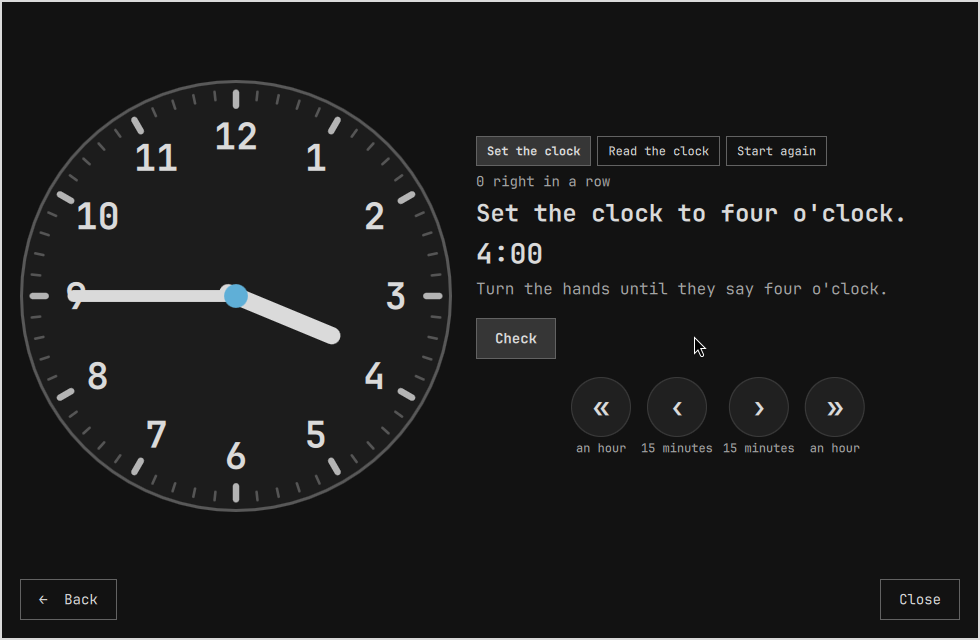
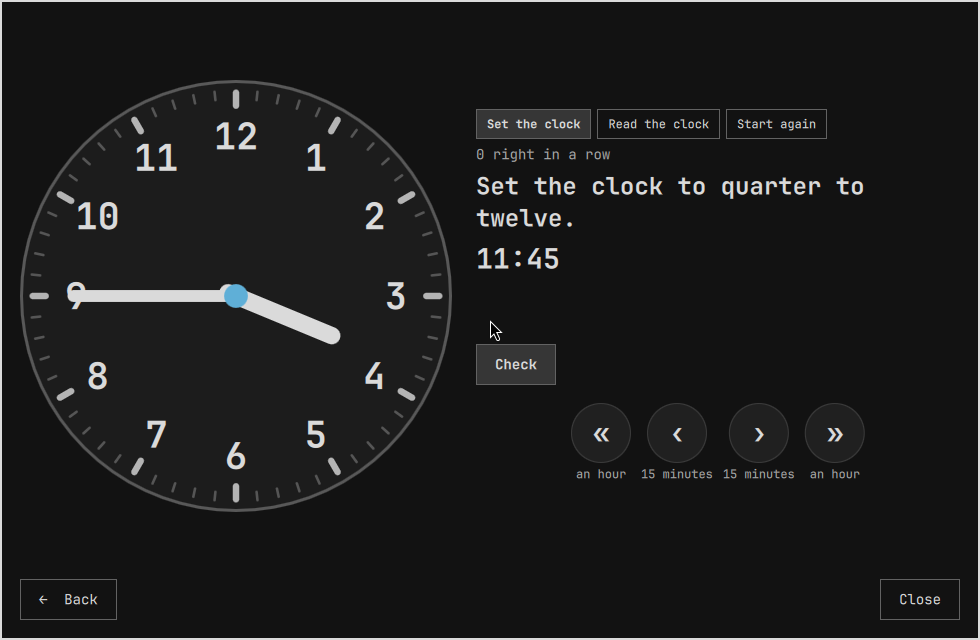
A house, a sky with weather in it, and a day a grandparent can have
The globe's Find home is the house glyph from the same icon font the bar's
sun and moon come from, since it sits between two buttons that are already
arrows.

Both rounds said what they wanted twice: "Set the clock to eight o'clock"
and then "Turn the hands until they say eight o'clock", and "What time is the
clock saying?" over "Read the hands, then pick the time". The second one is
gone, and the line it stood on is kept for the verdict, two lines high
whatever it says, so nothing moves when the answer arrives.

The routine was written for a child and then applied to everybody, so Grandma
was at school on a Wednesday morning. It is "at school or at work" now, and
the afternoon is "home from school or work" rather than "out of school".

The sky has a ground to it: a gradient, darker overhead and lighter towards
the horizon, warmed towards the accent as the sun gets near it so that dawn
and dusk look like dawn and dusk. It is the foreground and the accent at an
alpha and nothing else, so it re-tints with the theme like everything else
here, and the small skies on the cards get it too.

Claude-Session: https://claude.ai/code/session_01NM7Hj4ciYhKm8Aio5Eie8D

diff --git a/Overlay.qml b/Overlay.qml
@@ -592,6 +592,23 @@ Item {
     readonly property real horizonY: height * 0.86
     readonly property real radiusX: width / 2 - bodySize
     readonly property real radiusY: horizonY - bodySize * 0.9
+    // The sky has a ground to it rather than one flat fill: darker overhead,
+    // lighter at the horizon, and warmed towards the accent as the sun gets
+    // near it, so dawn and dusk look like dawn and dusk. `glow` is 1 with the
+    // sun on the horizon and nothing by a fifth of the way up. Every colour
+    // is a theme token at an alpha, so the whole thing re-tints with the rest
+    // of the shell and ships no palette of its own.
+    readonly property real clampedT: Math.max(0, Math.min(1, t))
+    readonly property real glow: isDay
+      ? Math.max(0, 1 - Math.min(clampedT, 1 - clampedT) * 5) : 0
+    readonly property color skyTop: isDay
+      ? Util.alpha(root.foreground, root.darkTheme ? 0.05 : 0.03)
+      : Util.alpha(root.foreground, root.darkTheme ? 0.03 : 0.13)
+    readonly property color skyLow: isDay
+      ? Util.alpha(root.foreground, root.darkTheme ? 0.17 : 0.09)
+      : Util.alpha(root.foreground, root.darkTheme ? 0.10 : 0.21)
+    readonly property color skyHorizon: Qt.tint(skyLow, Util.alpha(root.sunColor, 0.30 * glow))
+
     readonly property real angle: Math.PI * (1 - Math.max(0, Math.min(1, t)))
     readonly property real bodyX: width / 2 + radiusX * Math.cos(angle)
     readonly property real bodyY: horizonY - radiusY * Math.sin(angle)
@@ -599,8 +616,24 @@ Item {
     Rectangle {
       anchors.fill: parent
       radius: root.cornerRadius
-      color: sky.isDay ? root.daySky : root.nightSky
-      Behavior on color { ColorAnimation { duration: 160 } }
+      gradient: Gradient {
+        GradientStop {
+          position: 0
+          color: sky.skyTop
+          Behavior on color { ColorAnimation { duration: 300 } }
+        }
+        GradientStop {
+          // Where the horizon line is drawn, so the warm band sits on it.
+          position: 0.86
+          color: sky.skyHorizon
+          Behavior on color { ColorAnimation { duration: 300 } }
+        }
+        GradientStop {
+          position: 1
+          color: sky.skyLow
+          Behavior on color { ColorAnimation { duration: 300 } }
+        }
+      }
     }
 
     Shape {
@@ -2337,7 +2370,8 @@ Item {
               id: findHome
               anchors.verticalCenter: parent.verticalCenter
               compact: true
-              text: "Find home"
+              text: Model.HOME_GLYPH
+              fontSize: Style.font.icon
               onClicked: root.centreGlobeOnHome()
             }
             TurnButton { glyph: "›"; caption: "turn it"; delta: 40; spins: true }
@@ -2513,14 +2547,23 @@ Item {
 
             Text {
               width: parent.width
+              height: Math.ceil(verdictMetrics.height * 2)
               textFormat: Text.PlainText
-              text: !root.currentRound ? ""
-                : (root.checked ? root.verdict : root.currentRound.task)
-              color: !root.checked ? root.quiet : (root.wasRight ? root.sunColor : root.foreground)
+              text: root.checked ? root.verdict : ""
+              color: root.wasRight ? root.sunColor : root.foreground
               font.family: root.fontFamily
               font.pixelSize: Style.font.heading
               wrapMode: Text.WordWrap
+              maximumLineCount: 2
+              elide: Text.ElideRight
+              verticalAlignment: Text.AlignTop
               Behavior on color { ColorAnimation { duration: 300 } }
+
+              FontMetrics {
+                id: verdictMetrics
+                font.family: root.fontFamily
+                font.pixelSize: Style.font.heading
+              }
             }
 
             Item { width: 1; height: Style.spacing.md }

diff --git a/test/model-test.js b/test/model-test.js
@@ -38,6 +38,20 @@ check("the plugin finds its own directory when the manifest no longer carries it
   assert.strictEqual(Model.dirFromUrl(""), "")
 })
 
+check("the routine says something true of a grandparent as well as a child", () => {
+  const rules = Model.bandRules("navigator")
+  const routine = Model.routineFrom({})
+  const home = Model.buildHome("Chicago", 41.88, -87.63, -5 * 3600, Date.UTC(2026, 8, 9, 15, 0), rules, "12")
+  const gran = Model.parsePeople("Gramsy=Phoenix", cities, 3)[0]
+  // A Wednesday mid-morning: nobody is "at school" on their own.
+  const midweek = Date.UTC(2026, 8, 9, 17, 0)
+  const school = Model.buildRow(gran, { offsetSeconds: -7 * 3600 }, midweek, home, routine, rules, "12")
+  assert.ok(school.sentence.indexOf("at school or at work") !== -1, school.sentence)
+  // And the afternoon is not "out of school" either.
+  const after = Model.buildRow(gran, { offsetSeconds: -7 * 3600 }, Date.UTC(2026, 8, 9, 23, 0), home, routine, rules, "12")
+  assert.ok(after.sentence.indexOf("home from school or work") !== -1, after.sentence)
+})
+
 check("clock strings parse, with am/pm and fallbacks", () => {
   assert.strictEqual(Model.parseClock("07:30", 0), 450)
   assert.strictEqual(Model.parseClock("8pm", 0), 20 * 60)
@@ -148,7 +162,7 @@ check("rows and the home carry the words a child reads", () => {
   assert.strictEqual(row.timeText, "8:30 AM")
   assert.strictEqual(row.awake, true)
   assert.ok(row.sentence.indexOf("In Tokyo it's morning, and it's already tomorrow.") === 0, row.sentence)
-  assert.ok(row.sentence.indexOf("Uncle Ken is probably playing, it's the weekend.") > 0, row.sentence)
+  assert.ok(row.sentence.indexOf("Uncle Ken is probably off, it's the weekend.") > 0, row.sentence)
   const pending = Model.buildRow(ken, undefined, utc, home, Model.routineFrom({}), rules, "12")
   assert.strictEqual(pending.ready, false)
   assert.strictEqual(Model.scrubWords(0), "")

diff --git a/Model.js b/Model.js
@@ -502,10 +502,10 @@ function activityAt(minutesOfDay, routine, weekend) {
   var asleep = lateBed ? (m >= routine.bed && m < routine.wake) : (m < routine.wake || m >= routine.bed)
   if (asleep) return { key: "asleep", label: "fast asleep", awake: false, call: "asleep" }
   if (m >= routine.wake && m < routine.wake + 45) return { key: "waking", label: "waking up and having breakfast", awake: true, call: "good" }
-  if (!weekend && m >= routine.schoolStart && m < routine.schoolEnd) return { key: "school", label: "at school", awake: true, call: "busy" }
+  if (!weekend && m >= routine.schoolStart && m < routine.schoolEnd) return { key: "school", label: "at school or at work", awake: true, call: "busy" }
   if (m >= routine.dinner && m < routine.dinner + 45) return { key: "dinner", label: "having dinner", awake: true, call: "busy" }
   if (mod(routine.bed - m, 1440) <= 45) return { key: "bedtime", label: "getting ready for bed", awake: true, call: "good" }
-  return { key: "playing", label: weekend ? "playing, it's the weekend" : "out of school and playing", awake: true, call: "good" }
+  return { key: "playing", label: weekend ? "off, it's the weekend" : "home from school or work", awake: true, call: "good" }
 }
 
 function callWords(call) {
@@ -604,6 +604,8 @@ function tooltip(rows) {
 // the bar font is known to carry.
 var SUN_GLYPH = ""
 var MOON_GLYPH = ""
+// A house from the same icon font, for the button that finds home.
+var HOME_GLYPH = ""
 
 function barGlyph(isDay) {
   return isDay ? SUN_GLYPH : MOON_GLYPH
@@ -1124,6 +1126,7 @@ if (typeof module !== "undefined") {
     globeSpotList: globeSpotList,
     globeMarkers: globeMarkers,
     spotView: spotView,
-    MOON_GLYPH: MOON_GLYPH
+    MOON_GLYPH: MOON_GLYPH,
+    HOME_GLYPH: HOME_GLYPH
   }
 }

diff --git a/README.md b/README.md
@@ -5,7 +5,9 @@ question a child asks about the people they love in other places: is Grandma
 awake right now, and can I call her?
 
 Time is abstract for a young child, so this clock does not lead with digits.
-Each place gets a sky with the sun on its arc by day and the moon by night. A
+Each place gets a sky with the sun on its arc by day and the moon by night,
+and the sky itself changes: darker overhead, lighter towards the horizon, and
+warmed as the sun gets near it, so dawn and dusk look like dawn and dusk. A
 sentence says what time of day it is there in words. Each person gets a card:
 their own sky, whether they are awake, what they are probably doing, and
 whether it is a good time to call. Two buttons move the sun forward and
@@ -32,8 +34,9 @@ switched at the top of the screen.
 ![The globe, turned to Sydney](preview-globe.png)
 
 The plugin binds to Omarchy's theme tokens and ships no colours of its own.
-The sun is the theme accent and the moon is the theme foreground, so it
-re-tints when the theme changes, like the rest of the shell.
+The sun is the theme accent and the moon is the theme foreground, and even the
+sky's gradient is those two at an alpha, so the whole thing re-tints when the
+theme changes, like the rest of the shell.
 
 ## The three faces
 
@@ -180,7 +183,7 @@ omarchy-shell shell setBarWidget ignibyte.kids-clock people '"Grandma=Phoenix; N
 | `band` | `explorer` | `explorer`, `tinkerer` or `navigator` |
 | `people` | `Grandma=Phoenix; Cousin Mia=Berlin; Uncle Ken=Tokyo` | `Name=City` pairs separated by semicolons, which the People screen edits. Cities from the built-in list of about 1,460, `City, Region` when the name is shared, or any IANA zone such as `America/Phoenix`; a zone tzdata does not know is reported as unknown rather than shown as UTC. Names up to 40 characters, places up to 64, at most 32 pairs kept. An empty value shows nobody; a missing key shows these three examples |
 | `homeCity` | blank | What home is called, as free text, edited on the Me screen. Blank uses the city that matches the system time zone. A city from the built-in list also places home on the map and the globe and gives its sky the right sunrise; anything else is only the name. Home's clock follows the system time zone either way |
-| `wakeTime`, `schoolStart`, `schoolEnd`, `dinnerTime`, `bedTime` | `07:00`, `08:30`, `15:00`, `18:00`, `20:00` | The family routine. "Uncle Ken is probably at school" means the child's own routine moved to Tokyo, which is honest and personal rather than a guess about another country |
+| `wakeTime`, `schoolStart`, `schoolEnd`, `dinnerTime`, `bedTime` | `07:00`, `08:30`, `15:00`, `18:00`, `20:00` | The family routine. "Uncle Ken is probably at school or at work" means the child's own routine moved to Tokyo, which is honest and personal rather than a guess about another country. The words fit a grandparent as well as a child, because most of the people on the clock are grown up |
 | `hourFormat` | `12` | `12` or `24`, for the bands that show digits |
 | `bestStreak` | none | The longest run of right answers in the game. The game writes it; there is no reason to set it by hand, and deleting it starts the best again |
 
@@ -217,7 +220,7 @@ the field they finish.
 |---|---|
 | ←, →, Now | move the sun an hour, and put it back. On the clock they sit under the face, which is the thing they move; at the top of Times on Earth otherwise. All three are always there, so the row never shifts under a hand |
 | Globe, Flat map | the two ways of looking at Times on Earth (the flat map is navigator) |
-| Find home | turns the globe back to home; it sits between the two buttons that turn it |
+| the house | turns the globe back to home; it sits between the two buttons that turn it |
 | Set the clock, Read the clock | the two rounds of the game |
 | Check | answers the round: right adds one to the run, wrong ends it |
 | Start again, Another one | put the hands back where they began, and take a new round |
@@ -254,7 +257,8 @@ toy clock reset (at nine when the answer is twelve itself), so the hour goes
 first and then the minutes. The hour hand is geared to the minute hand, so
 half past shows it halfway to the next numeral, which is the thing children
 find hardest about a real clock. Four round buttons turn the hands an hour or
-a step either way.
+a step either way. The prompt is not said twice: what the round wants is on
+the screen once.
 
 **Read the clock** does it the other way round: the hands are already set, and
 four times are offered. The three wrong ones are the mistakes a child actually
